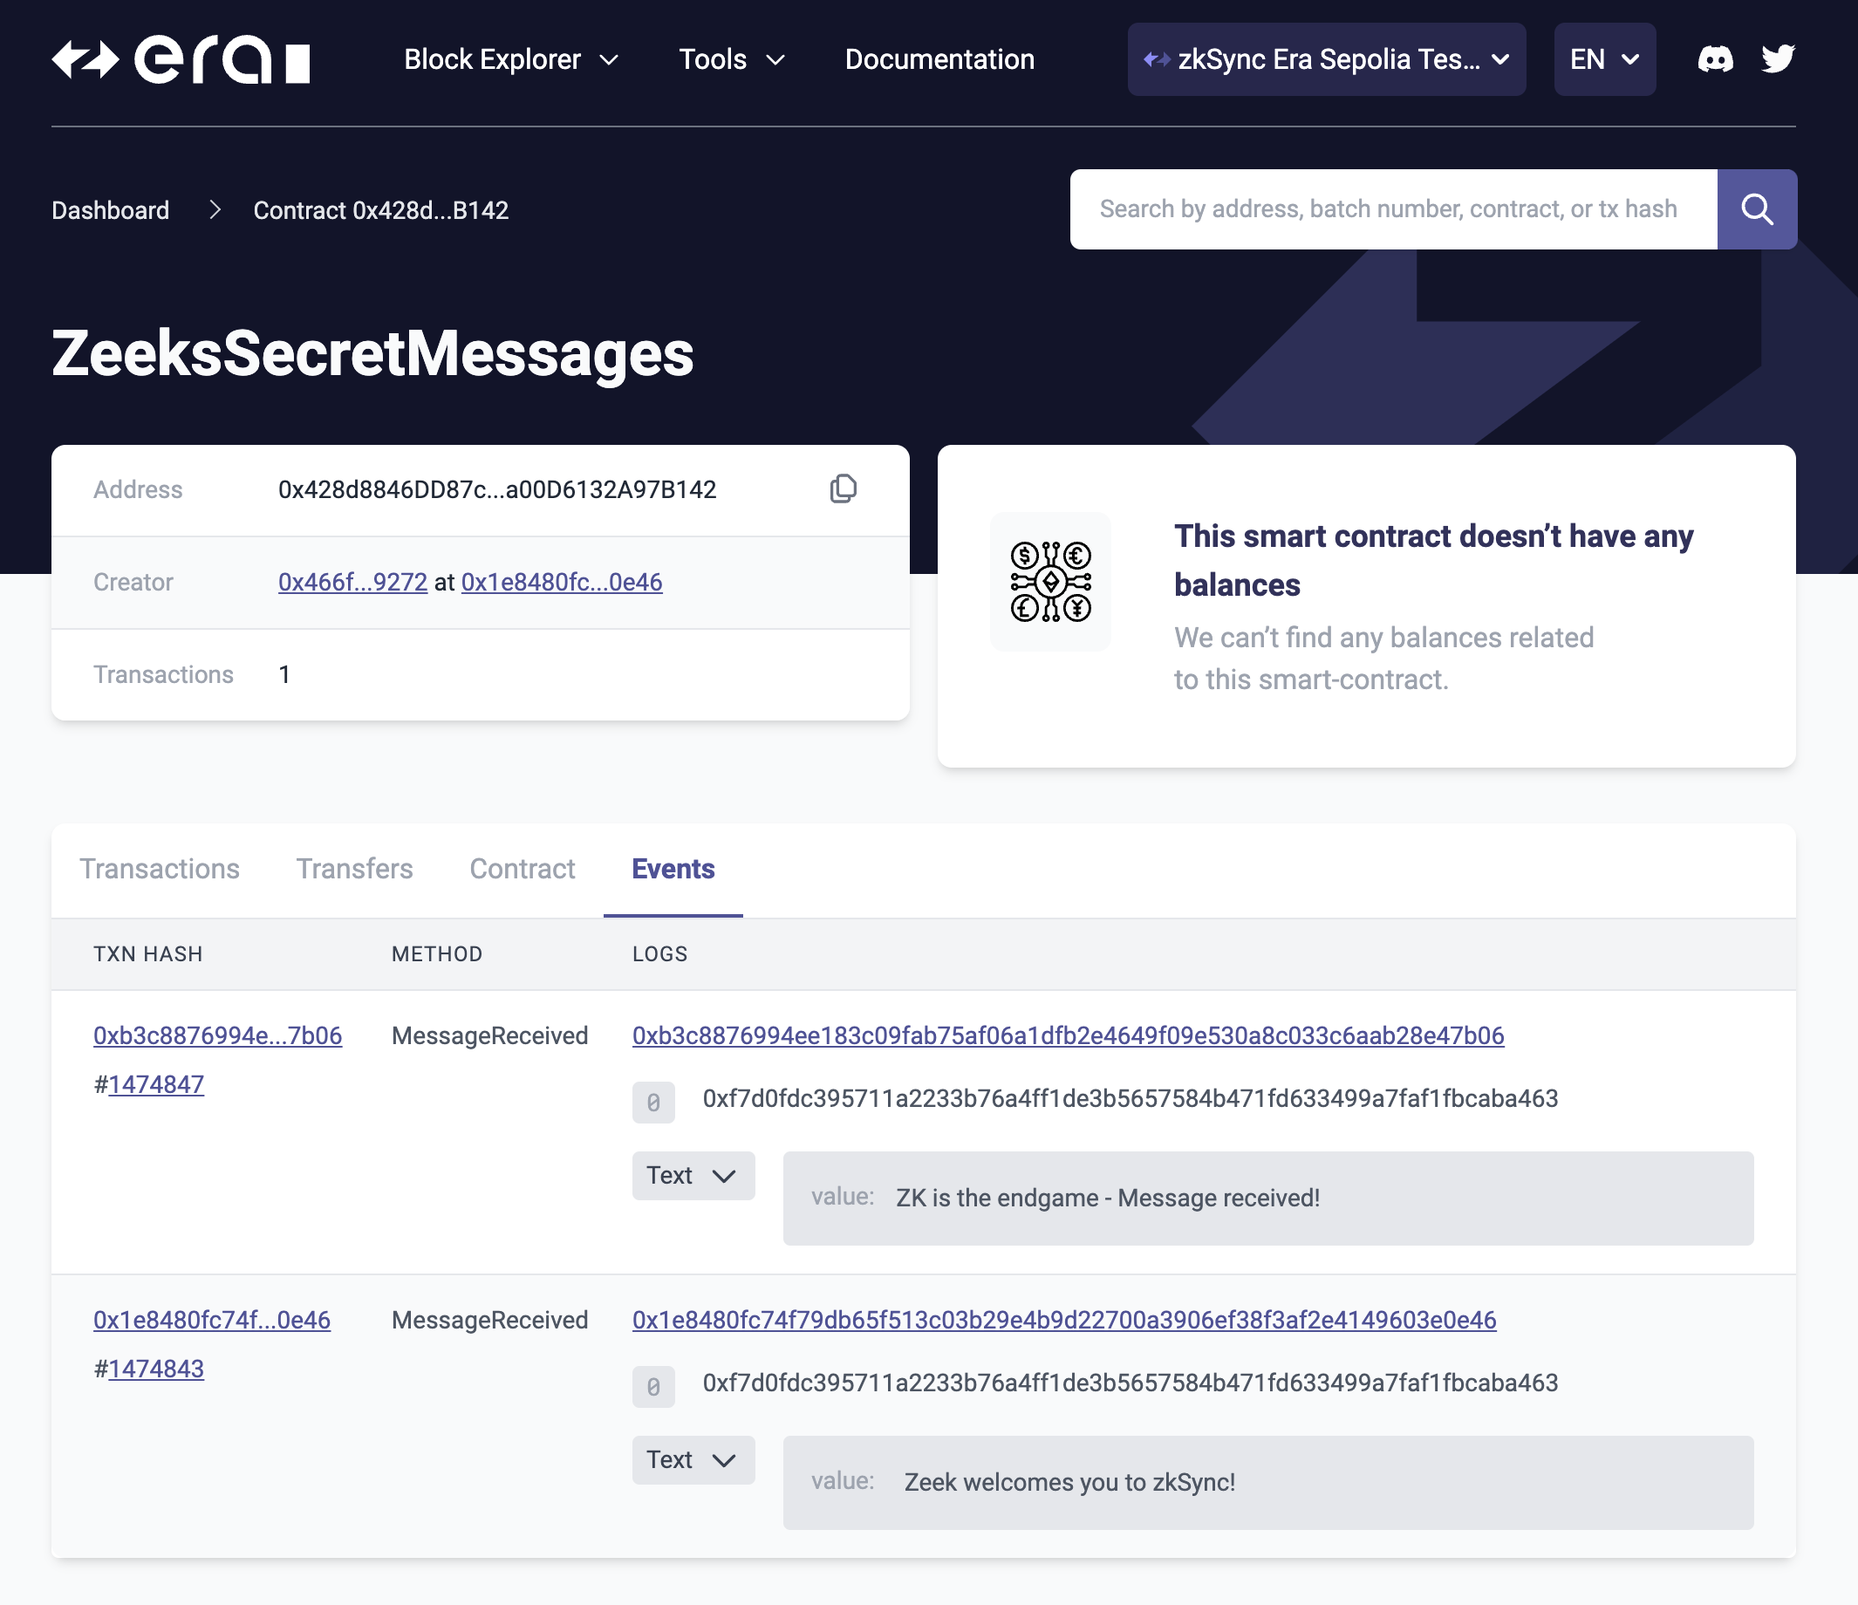
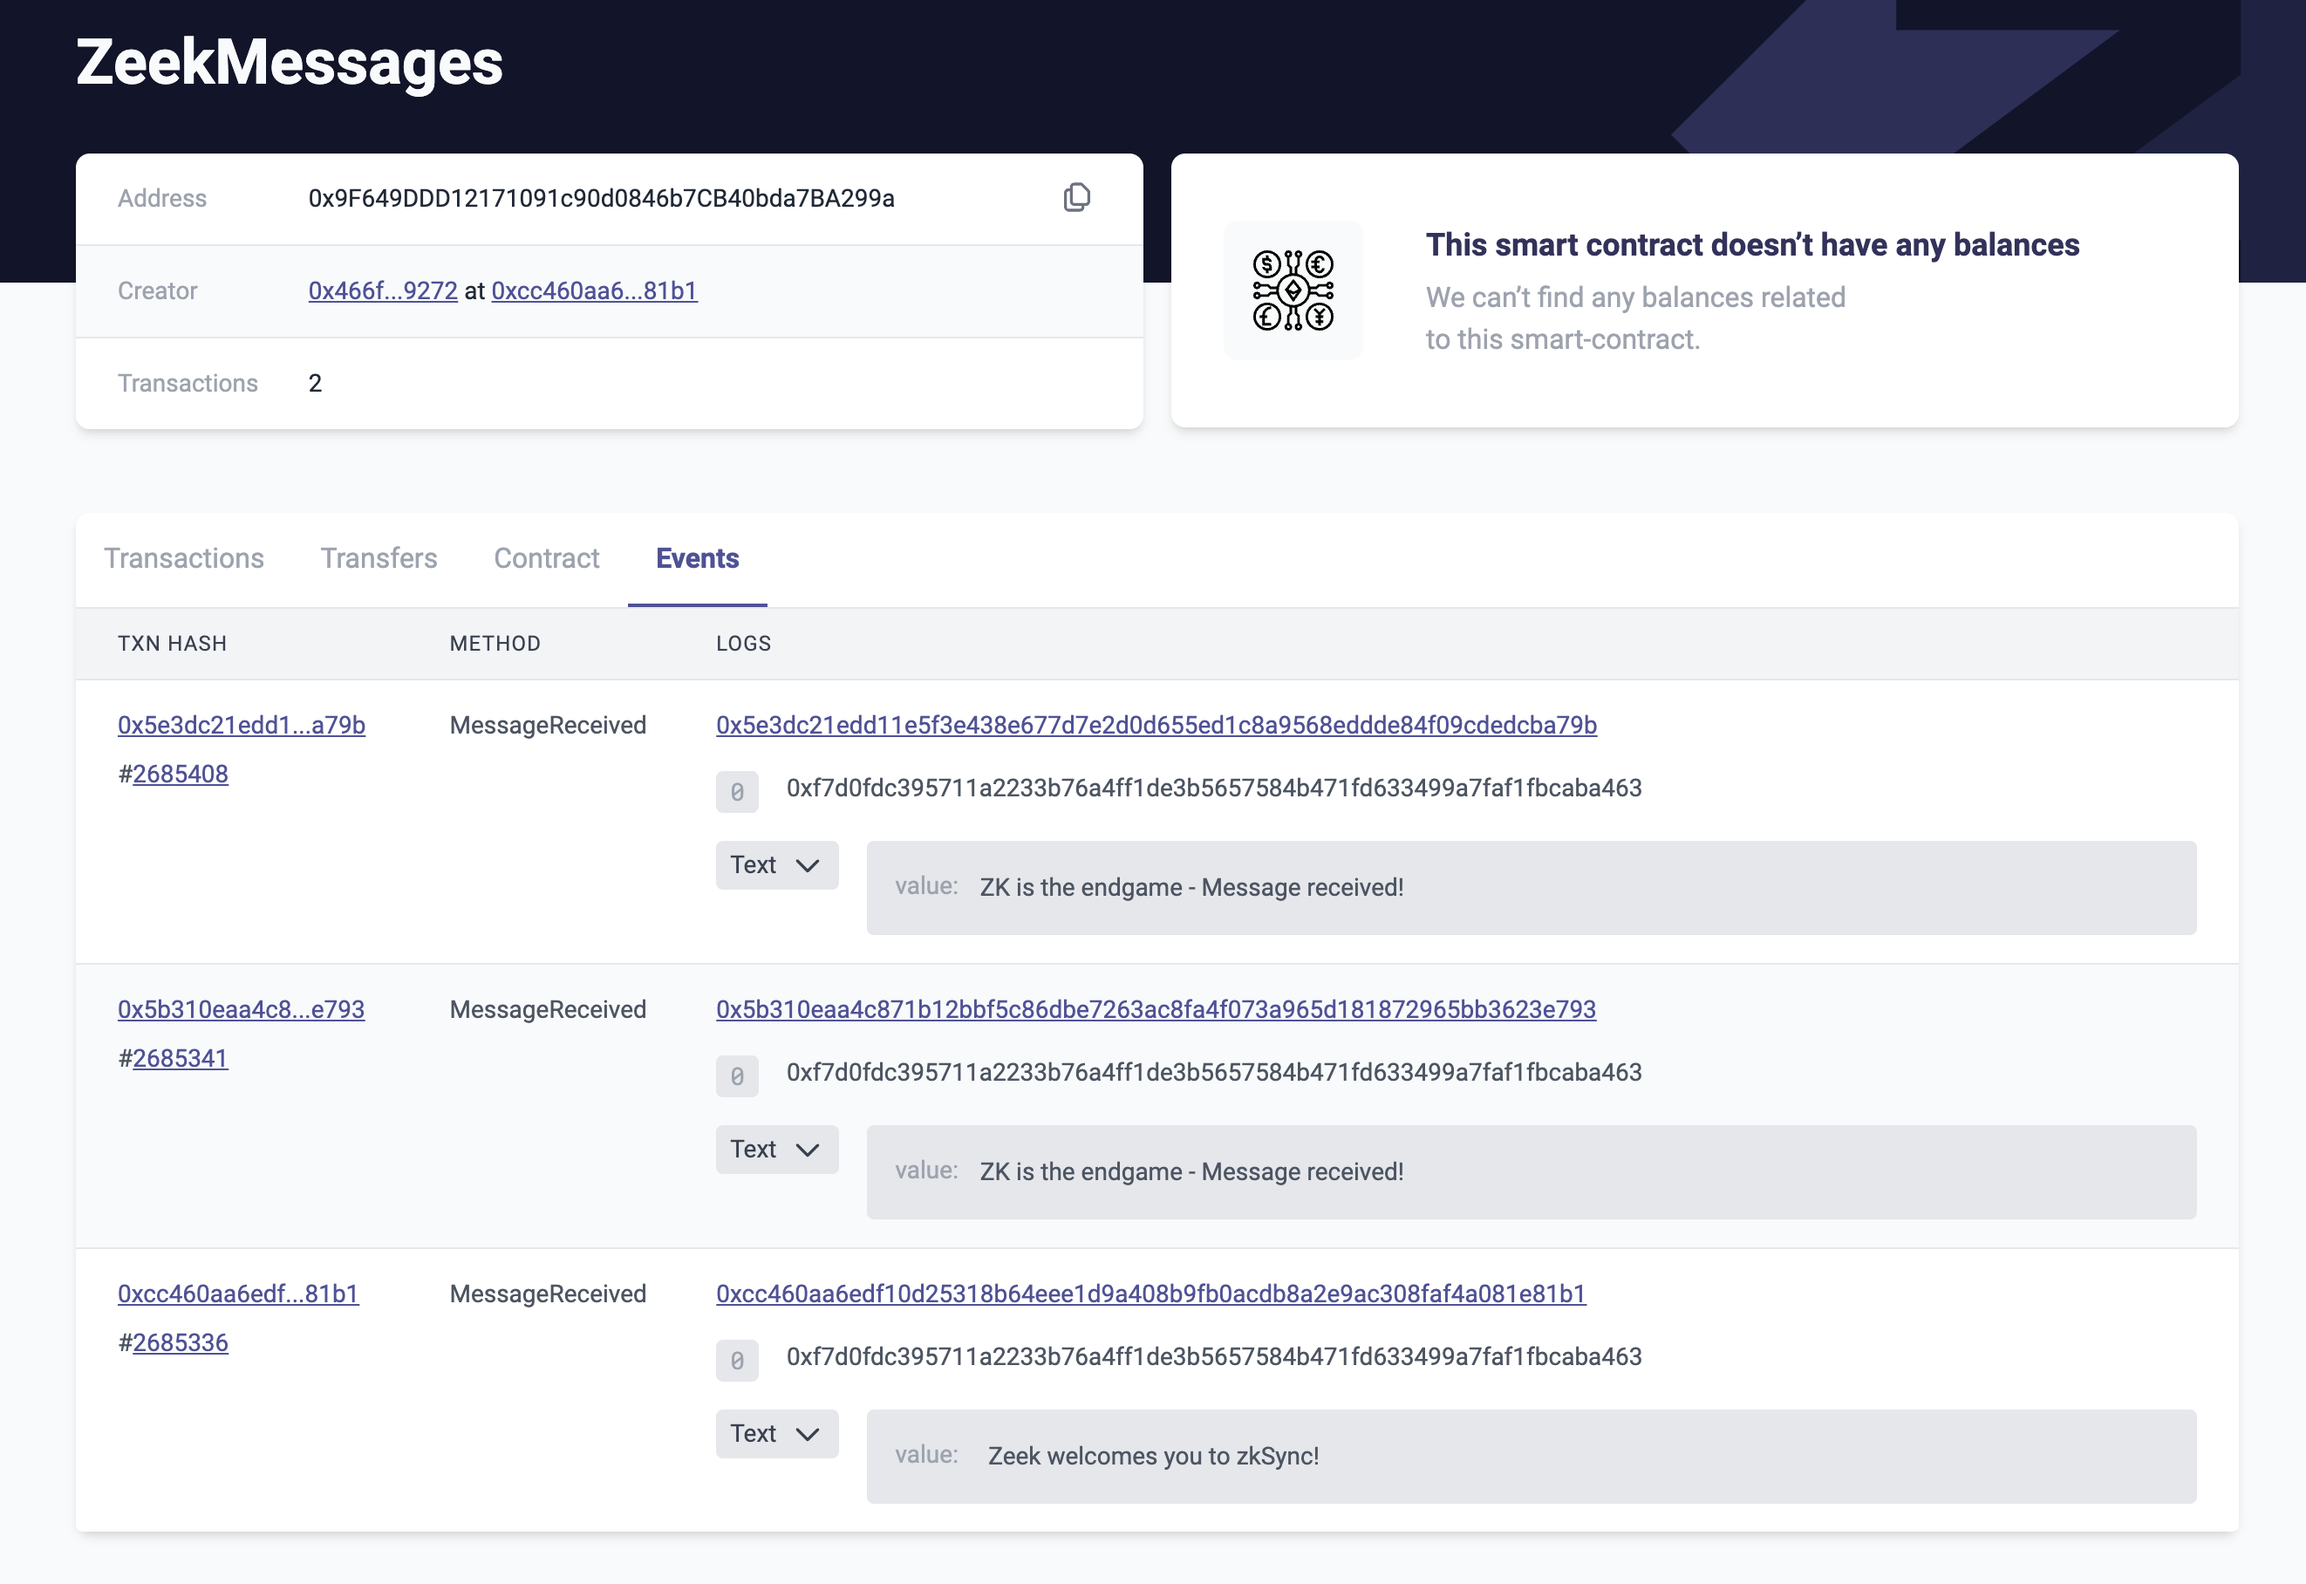
Removes message hash from quickstart (#101)
# Description

Updates quickstart tutorial to remove message hashing as it adds
unnecessary complexity.
Also updates screenshots.

To be merged with:
https://github.com/zkSync-Community-Hub/zksync-quickstart-remix/pull/1

## Linked Issues

<!-- If you have any issues this PR is related to, link them here. -->
<!--
Check out
https://docs.github.com/en/issues/tracking-your-work-with-issues/linking-a-pull-request-to-an-issue
on how to automate linking a GitHub Issue to a PR.
-->

## Additional context

diff --git a/content/00.build/05.quick-start/3.deploy-your-first-contract.md b/content/00.build/05.quick-start/3.deploy-your-first-contract.md
@@ -8,7 +8,7 @@ It will help you get familiar with the zkSync smart contract development and dep
 
 In this section you will learn how to:
 
-:check-icon Build a smart contract to exchange secret messages with Zeek.
+:check-icon Build a smart contract to exchange messages with Zeek.
 
 :check-icon Deploy the smart contract to the %%zk_testnet_name%%.
 
@@ -22,15 +22,15 @@ In this section you will learn how to:
 
 ## Review the smart contract code
 
-The smart contract will store messages from users in a hashed format and emit events with replies from Zeek.
+The smart contract will store messages from users and emit events with replies from Zeek.
 The entire code is as follows:
 
 ```solidity
 // SPDX-License-Identifier: MIT
 pragma solidity ^0.8.0;
 
-contract ZeekSecretMessages {
-    bytes32[] private messages;
+contract ZeekMessages {
+    string[] private messages;
 
     // Event to acknowledge a new message
     event MessageReceived(string);
@@ -40,10 +40,8 @@ contract ZeekSecretMessages {
         emit MessageReceived("Zeek welcomes you to zkSync!");
     }
 
-    // Function to send a "secret" message to Zeek
     function sendMessage(string memory _message) public {
-        bytes32 hashedMessage = keccak256(abi.encodePacked(_message));
-        messages.push(hashedMessage);
+        messages.push(_message);
 
         // Acknowledge the message receipt with Zeek's reply
         emit MessageReceived("ZK is the endgame - Message received!");
@@ -53,13 +51,21 @@ contract ZeekSecretMessages {
     function getTotalMessages() public view returns (uint) {
         return messages.length;
     }
+
+    // Function to return the last message sent to Zeek
+    function getLastMessage() public view returns (string memory) {
+        require(messages.length > 0, "No messages sent to Zeek yet!");
+        return messages[messages.length - 1];
+    }
 }
+
 ```
 
 The Solidity smart contract contains two functions:
 
 - `sendMessage` stores the messages sent by users in the `messages` state variable.
 - `getTotalMessages` returns the number of messages stored in the smart contract.
+- `getLastMessage` returns the last message sent.
 
 ::callout{icon="i-heroicons-light-bulb"}
 zkSync Era is [EVM compatible](/build/resources/glossary#evm-compatible).

diff --git a/content/00.build/05.quick-start/_deploy_first/_remix_deploy_contract.md b/content/00.build/05.quick-start/_deploy_first/_remix_deploy_contract.md
@@ -38,6 +38,8 @@ To deploy the contract, open the "Deploy" dropdown, check the "Verify contract" 
 Verify”. Sign the transaction in your wallet and wait a few seconds until it's processed. Congratulations, you’ve
 deployed your first contract to %%zk_testnet_name%%!
 
+![Remix interact zkSync contract](/images/101-quickstart/101-remix-deploy.png)
+
 ### Interact with the contract
 
 Next to the contract name you can find the address where the contract is deployed. The “Interact” section displays the
@@ -46,5 +48,6 @@ forms to interact with the `getTotalMessages` and `sendMessage` functions.
 ![Remix interact zkSync contract](/images/101-quickstart/101-remix-interact.png)
 
 Write a message in the form, click the “sendMessage” button and confirm the transaction in your wallet. Once processed,
-click the `getTotalMessages` and check the response in the terminal, which should be `1`. That means our contract is
-storing the messages as expected! But how can we see the replies from Zeek?
+click the `getTotalMessages` and check the response in the terminal, which should be `1`. The `getLastMessage` function
+should also return the message you just sent. That means the contract is storing the messages as expected! But how can
+we see the replies from Zeek?

diff --git a/content/00.build/05.quick-start/_deploy_first/_atlas_deploy_contract.md b/content/00.build/05.quick-start/_deploy_first/_atlas_deploy_contract.md
@@ -32,5 +32,6 @@ contract balance and the value returned by the `getTotalMessages` function.
 ![Contract deployed](/images/101-quickstart/101-atlas-deployed.png)
 
 The “Write Functions” section contains the form to interact with the `sendMessage` function. Write a message, click the
-“Run” button and confirm the transaction in your wallet. You’ll see that the `getTotalMessages` is updated to `1`. That
-means our contract is storing the messages as expected! But how can you see the replies from Zeek?
+“Run” button and confirm the transaction in your wallet. You’ll see that the `getTotalMessages` is updated to `1` and
+`getLastMessage` returns the message you just sent. That means our contract is storing the messages as expected! But how
+can you see the replies from Zeek?
